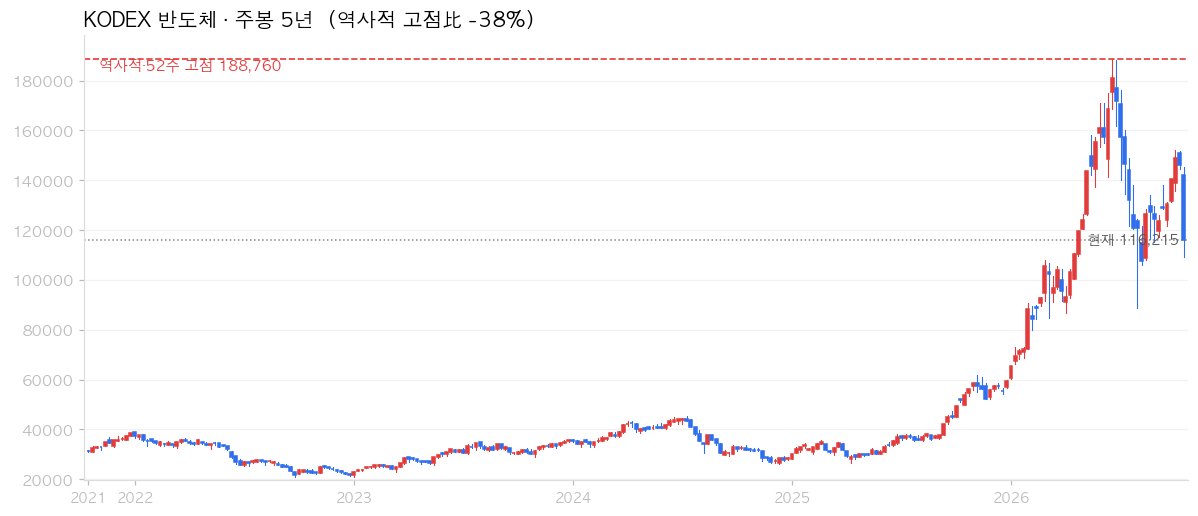
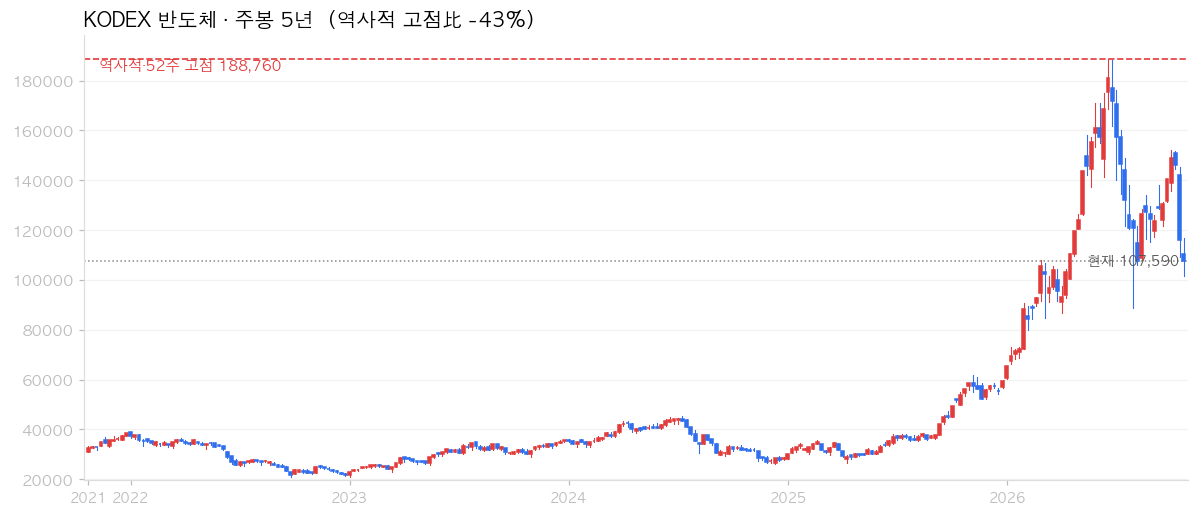
산업 사이클 지도 2026-10-25

diff --git a/_posts/2026-10-25-etf-cycle.md b/_posts/2026-10-25-etf-cycle.md
@@ -1,0 +1,111 @@
+---
+title: "산업 사이클 지도 — 지금 어느 업종이 저점권일까 (2026.10 넷째주)"
+categories: [money]
+tags: [주식투자, ETF, 산업사이클]
+permalink: /money/2026-10-25-etf-cycle/
+excerpt: "산업 ETF 주봉 5년 + 역사적/52주 고점 · 저점권 게임, 미디어·엔터, 2차전지, 바이오·헬스, 방산, 증권, 조선, IT·인터넷, 에너지화학, 자동차, 반도체, 철강"
+header:
+  og_image: /assets/images/etf-cycle/300950.png
+---
+
+업종은 저마다의 사이클로 고점·저점을 반복합니다. 산업 ETF 주봉(5년)에 **역사적 고점·52주 고점 선**을 그어, 지금 각 업종이 고점 대비 어디쯤인지 장기 관점으로 기록합니다. 낙폭이 깊은 **저점권**부터 정렬했습니다. (매수 추천이 아니라 위치 기록)
+
+#### 게임 · 저점권  (KODEX 게임산업 · 300950)
+
+<img src="/assets/images/etf-cycle/300950.png" alt="게임 주봉" style="width:100%;max-width:760px">
+
+고점 대비 -74%. 사이클 저점권 — 장기 관찰 대상. [📈 차트 크게 보기(줌)](https://finance.naver.com/item/fchart.naver?code=300950)
+
+#### 미디어·엔터 · 저점권  (KODEX 미디어&엔터 · 266360)
+
+<img src="/assets/images/etf-cycle/266360.png" alt="미디어·엔터 주봉" style="width:100%;max-width:760px">
+
+고점 대비 -68%. 사이클 저점권 — 장기 관찰 대상. [📈 차트 크게 보기(줌)](https://finance.naver.com/item/fchart.naver?code=266360)
+
+#### 2차전지 · 저점권  (KODEX 2차전지산업 · 305720)
+
+<img src="/assets/images/etf-cycle/305720.png" alt="2차전지 주봉" style="width:100%;max-width:760px">
+
+고점 대비 -67%. 사이클 저점권 — 장기 관찰 대상. [📈 차트 크게 보기(줌)](https://finance.naver.com/item/fchart.naver?code=305720)
+
+#### 바이오·헬스 · 저점권  (KODEX 바이오 · 244580)
+
+<img src="/assets/images/etf-cycle/244580.png" alt="바이오·헬스 주봉" style="width:100%;max-width:760px">
+
+고점 대비 -58%. 사이클 저점권 — 장기 관찰 대상. [📈 차트 크게 보기(줌)](https://finance.naver.com/item/fchart.naver?code=244580)
+
+#### 방산 · 저점권  (PLUS K방산 · 449450)
+
+<img src="/assets/images/etf-cycle/449450.png" alt="방산 주봉" style="width:100%;max-width:760px">
+
+고점 대비 -57%. 사이클 저점권 — 장기 관찰 대상. [📈 차트 크게 보기(줌)](https://finance.naver.com/item/fchart.naver?code=449450)
+
+#### 증권 · 저점권  (KODEX 증권 · 102970)
+
+<img src="/assets/images/etf-cycle/102970.png" alt="증권 주봉" style="width:100%;max-width:760px">
+
+고점 대비 -57%. 사이클 저점권 — 장기 관찰 대상. [📈 차트 크게 보기(줌)](https://finance.naver.com/item/fchart.naver?code=102970)
+
+#### 조선 · 저점권  (SOL 조선TOP3플러스 · 466920)
+
+<img src="/assets/images/etf-cycle/466920.png" alt="조선 주봉" style="width:100%;max-width:760px">
+
+고점 대비 -54%. 사이클 저점권 — 장기 관찰 대상. [📈 차트 크게 보기(줌)](https://finance.naver.com/item/fchart.naver?code=466920)
+
+#### IT·인터넷 · 저점권  (TIGER 200 IT · 139260)
+
+<img src="/assets/images/etf-cycle/139260.png" alt="IT·인터넷 주봉" style="width:100%;max-width:760px">
+
+고점 대비 -50%. 사이클 저점권 — 장기 관찰 대상. [📈 차트 크게 보기(줌)](https://finance.naver.com/item/fchart.naver?code=139260)
+
+#### 에너지화학 · 저점권  (KODEX 에너지화학 · 117460)
+
+<img src="/assets/images/etf-cycle/117460.png" alt="에너지화학 주봉" style="width:100%;max-width:760px">
+
+고점 대비 -46%. 사이클 저점권 — 장기 관찰 대상. [📈 차트 크게 보기(줌)](https://finance.naver.com/item/fchart.naver?code=117460)
+
+#### 자동차 · 저점권  (KODEX 자동차 · 091180)
+
+<img src="/assets/images/etf-cycle/091180.png" alt="자동차 주봉" style="width:100%;max-width:760px">
+
+고점 대비 -45%. 사이클 저점권 — 장기 관찰 대상. [📈 차트 크게 보기(줌)](https://finance.naver.com/item/fchart.naver?code=091180)
+
+#### 반도체 · 저점권  (KODEX 반도체 · 091160)
+
+<img src="/assets/images/etf-cycle/091160.png" alt="반도체 주봉" style="width:100%;max-width:760px">
+
+고점 대비 -43%. 사이클 저점권 — 장기 관찰 대상. [📈 차트 크게 보기(줌)](https://finance.naver.com/item/fchart.naver?code=091160)
+
+#### 철강 · 저점권  (KODEX 철강 · 117680)
+
+<img src="/assets/images/etf-cycle/117680.png" alt="철강 주봉" style="width:100%;max-width:760px">
+
+고점 대비 -42%. 사이클 저점권 — 장기 관찰 대상. [📈 차트 크게 보기(줌)](https://finance.naver.com/item/fchart.naver?code=117680)
+
+#### 건설 · 중립  (KODEX 건설 · 117700)
+
+<img src="/assets/images/etf-cycle/117700.png" alt="건설 주봉" style="width:100%;max-width:760px">
+
+고점 대비 -39%. 저점권도 고점권도 아닌 중립. [📈 차트 크게 보기(줌)](https://finance.naver.com/item/fchart.naver?code=117700)
+
+#### 운송 · 중립  (KODEX 운송 · 140710)
+
+<img src="/assets/images/etf-cycle/140710.png" alt="운송 주봉" style="width:100%;max-width:760px">
+
+고점 대비 -19%. 저점권도 고점권도 아닌 중립. [📈 차트 크게 보기(줌)](https://finance.naver.com/item/fchart.naver?code=140710)
+
+#### 은행 · 중립  (KODEX 은행 · 091170)
+
+<img src="/assets/images/etf-cycle/091170.png" alt="은행 주봉" style="width:100%;max-width:760px">
+
+고점 대비 -18%. 저점권도 고점권도 아닌 중립. [📈 차트 크게 보기(줌)](https://finance.naver.com/item/fchart.naver?code=091170)
+
+#### 보험 · 중립  (KODEX 보험 · 140700)
+
+<img src="/assets/images/etf-cycle/140700.png" alt="보험 주봉" style="width:100%;max-width:760px">
+
+고점 대비 -17%. 저점권도 고점권도 아닌 중립. [📈 차트 크게 보기(줌)](https://finance.naver.com/item/fchart.naver?code=140700)
+
+이번 주 기준 저점권은 **게임, 미디어·엔터, 2차전지, 바이오·헬스, 방산, 증권, 조선, IT·인터넷, 에너지화학, 자동차, 반도체, 철강**. 저는 저점권 업종을 장기 후보로만 적어두고 시간을 두고 봅니다.
+
+> 개인적인 장기 관점 기록이며 특정 종목·ETF의 매수/매도를 권유하지 않습니다. 사이클 위치는 참고용입니다.
